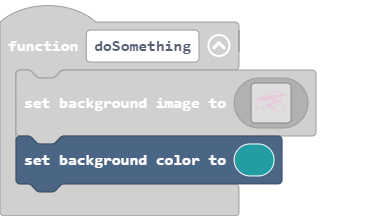
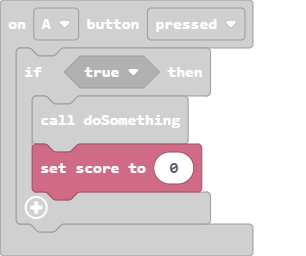
Update main.blocks, main.ts

diff --git a/main.ts b/main.ts
@@ -1,6 +1,7 @@
 controller.A.onEvent(ControllerButtonEvent.Pressed, function () {
     if (true) {
         doSomething()
+        info.setScore(0)
     }
 })
 function doSomething () {
